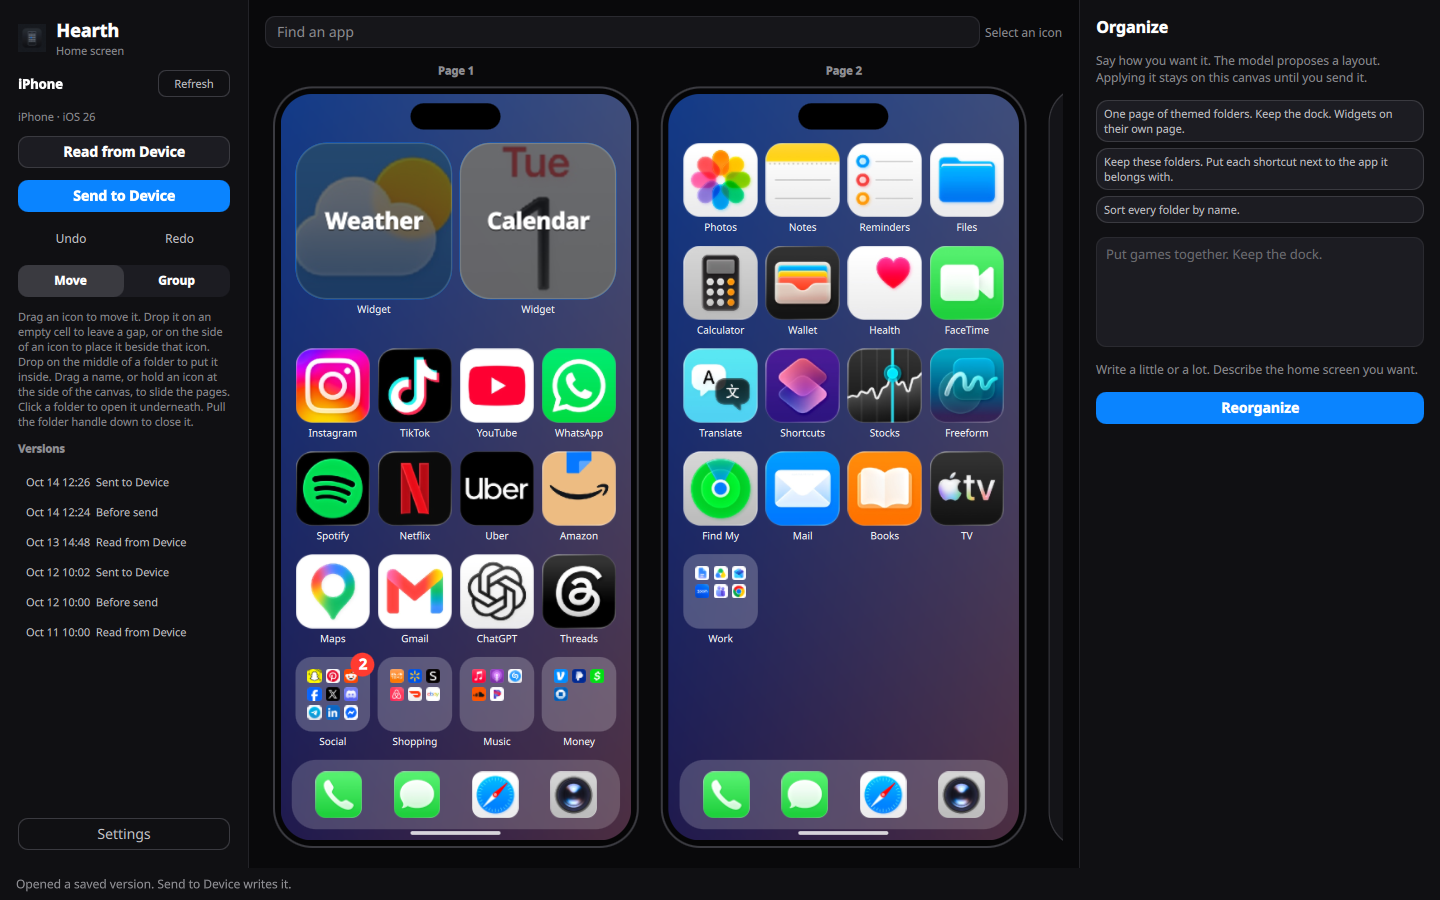
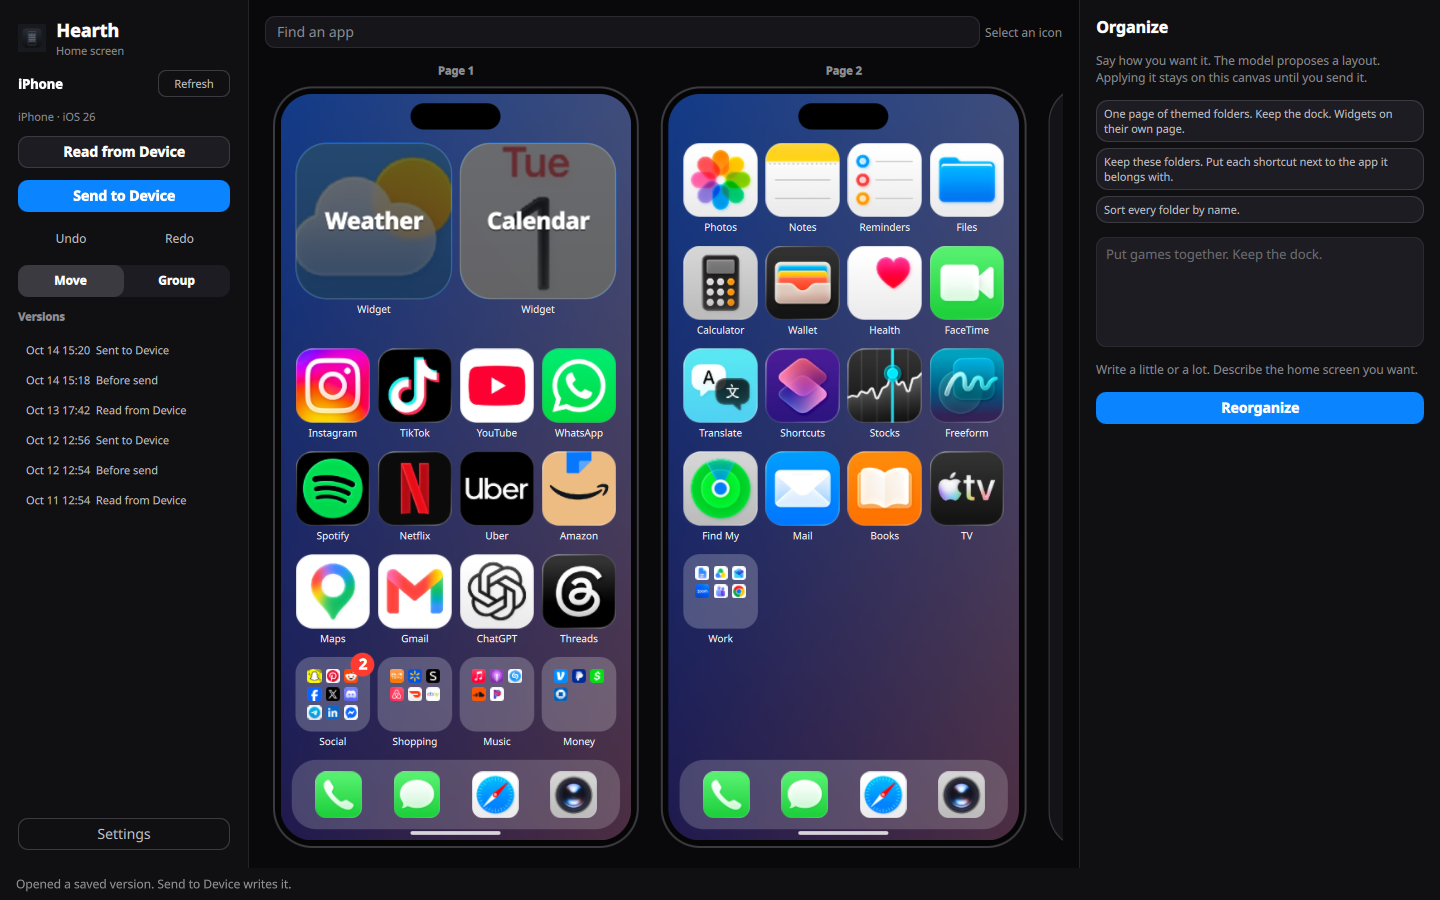
Remove the instruction paragraph from the sidebar; keep the two easy-to-miss gestures as hover hints.

Changed region(s): [[0.0, 0.3422, 0.1562, 0.7156]]

diff --git a/hearth/qml/Main.qml b/hearth/qml/Main.qml
@@ -438,18 +438,15 @@ ApplicationWindow {
                                     font.bold: true
                                 }
                                 MouseArea { anchors.fill: parent; onClicked: win.groupMode = index === 1 }
+                                HoverHandler { id: modeHover }
+                                ToolTip.visible: modeHover.hovered
+                                ToolTip.delay: 600
+                                ToolTip.text: index === 1
+                                    ? "Drop an app on another app to make a folder."
+                                    : "Drag an icon to move it. Hold it at the side of the canvas to turn pages."
                             }
                         }
                     }
-                }
-                Text {
-                    Layout.fillWidth: true
-                    wrapMode: Text.WordWrap
-                    text: groupMode
-                        ? "Drop an app on another app to make a folder. Move mode places icons beside each other and can leave empty cells."
-                        : "Drag an icon to move it. Drop it on an empty cell to leave a gap, or on the side of an icon to place it beside that icon. Drop on the middle of a folder to put it inside. Drag a name, or hold an icon at the side of the canvas, to slide the pages. Click a folder to open it underneath. Pull the folder handle down to close it."
-                    color: "#8E8E93"
-                    font.pixelSize: 11
                 }
 
                 Text { text: "Versions"; color: "#8E8E93"; font.pixelSize: 11; font.bold: true }

diff --git a/hearth/qml/FolderTray.qml b/hearth/qml/FolderTray.qml
@@ -89,6 +89,10 @@ Rectangle {
         height: 22
         enabled: tray.reveal > 0.4
         preventStealing: true
+        hoverEnabled: true
+        ToolTip.visible: containsMouse && !pressed
+        ToolTip.delay: 600
+        ToolTip.text: "Pull down to close the folder."
         cursorShape: pressed ? Qt.ClosedHandCursor : Qt.SizeVerCursor
         property real originSceneY: 0
         property real originPull: 0

diff --git a/tests/test_sidebar.py b/tests/test_sidebar.py
@@ -1,0 +1,92 @@
+"""The sidebar is buttons and a list. It carries no explanatory paragraph."""
+
+import tempfile
+import unittest
+from pathlib import Path
+from unittest.mock import patch
+
+import shiboken6
+from PySide6.QtCore import QCoreApplication, QPointF, QUrl
+from PySide6.QtGui import QGuiApplication
+from PySide6.QtQml import QQmlApplicationEngine
+from PySide6.QtQuick import QQuickItem
+
+from hearth import drivers
+from hearth.controller import Controller
+
+QML = Path(__file__).resolve().parents[1] / "hearth" / "qml" / "Main.qml"
+READY = drivers.Probe(system="Linux", socket_open=True)
+REMOVED = ("Drag an icon to move it", "Drop an app on another app", "Pull the folder handle", "slide the pages")
+
+
+def items(root):
+    todo = [root]
+    while todo:
+        item = todo.pop()
+        yield item
+        todo.extend(item.childItems())
+
+
+class SidebarTests(unittest.TestCase):
+    @classmethod
+    def setUpClass(cls):
+        cls._app = QGuiApplication.instance() or QGuiApplication([])
+        cls._versions = tempfile.TemporaryDirectory()
+        cls._patch = patch("hearth.device.version_dir", return_value=Path(cls._versions.name))
+        cls._patch.start()
+
+    @classmethod
+    def tearDownClass(cls):
+        cls._patch.stop()
+        cls._versions.cleanup()
+
+    def setUp(self):
+        with patch.object(drivers, "live_probe", return_value=READY):
+            self.controller = Controller()
+        self.engine = QQmlApplicationEngine()
+        self.engine.rootContext().setContextProperty("controller", self.controller)
+        self.engine.load(QUrl.fromLocalFile(str(QML)))
+        self.root = self.engine.rootObjects()[0]
+        QCoreApplication.processEvents()
+        self.addCleanup(self.close)
+
+    def close(self):
+        shiboken6.delete(self.engine)
+        self.controller.shutdown()
+
+    def texts(self, group_mode):
+        self.root.setProperty("groupMode", group_mode)
+        QCoreApplication.processEvents()
+        return [
+            str(item.property("text"))
+            for item in items(self.root.contentItem())
+            if item.property("text") is not None and item.property("visible")
+        ]
+
+    def test_no_help_paragraph_shows_in_either_mode(self):
+        for group_mode in (False, True):
+            shown = " ".join(self.texts(group_mode))
+            for phrase in REMOVED:
+                self.assertNotIn(phrase, shown)
+
+    def test_the_mode_switch_and_the_versions_list_stay_together(self):
+        shown = self.texts(False)
+        for word in ("Read from Device", "Undo", "Redo", "Move", "Group", "Versions"):
+            self.assertIn(word, shown)
+        group = next(i for i in items(self.root.contentItem()) if i.property("text") == "Group")
+        versions = next(i for i in items(self.root.contentItem()) if i.property("text") == "Versions")
+        group_bottom = group.mapToItem(None, QPointF(0, group.height())).y()
+        versions_top = versions.mapToItem(None, QPointF(0, 0)).y()
+        # One normal row spacing and the switch's own padding. A leftover paragraph would be far larger.
+        self.assertLess(versions_top - group_bottom, 40)
+
+    def test_the_two_non_obvious_gestures_are_hints_on_hover_only(self):
+        source = QML.read_text(encoding="utf-8")
+        self.assertIn("ToolTip.text", source)
+        self.assertIn("Hold it at the side of the canvas to turn pages.", source)
+        tray = (QML.parent / "FolderTray.qml").read_text(encoding="utf-8")
+        self.assertIn("Pull down to close the folder.", tray)
+
+
+if __name__ == "__main__":
+    unittest.main()

diff --git a/CHANGELOG.md b/CHANGELOG.md
@@ -5,6 +5,7 @@
 - Cancelling the Grok sign-in no longer leaves Hearth stuck. Before, the sign-in waited for the full fifteen minutes with every button greyed out, and there was no way to stop it. Now the button turns into Cancel sign-in while Hearth waits. Cancel, closing Settings, switching to another provider, closing the window, or turning the sign-in down in the browser stops it at once. Nothing is shown as an error for a cancel, and you can start again right away.
 - Closing the window during a sign-in no longer risks a crash on the way out.
 - Real sign-in problems, such as an expired code or an account that cannot sign in, still show a plain message.
+- The sidebar no longer has a paragraph of instructions under the Read from Device and Send to Device buttons. The two gestures that are easy to miss, holding an icon at the side of the canvas to turn pages and pulling the folder handle down to close it, are now short hints that show when you hover. The README describes both. The README screenshots were retaken.
 
 ## 0.5.1 — 2026-10-15
 

diff --git a/README.md b/README.md
@@ -106,7 +106,7 @@ Pages keep empty cells. Drop an icon on an empty cell and the gap stays. Drop it
 
 Folders stay packed, nine apps to a page. Two or more pages show that count in a red badge on the folder. One page does not.
 
-Drag the icon to move it. Drag the name under it to slide between pages. Hold an icon at the side of the canvas and that page strip scrolls. That works on the home screen and inside the folder drawer. Click a folder to open it along the bottom. Pull the handle down to close it. Escape or a right-click cancels a drag.
+Drag the icon to move it. Drag the name under it to slide between pages. Move and Group sit under Undo and Redo. In Group, dropping an app on another app makes a folder. Hover over either one for a one-line hint. Hold an icon at the side of the canvas and that page strip scrolls. That works on the home screen and inside the folder drawer. Click a folder to open it along the bottom. Pull the handle down to close it. Escape or a right-click cancels a drag.
 
 ## Limits
 
